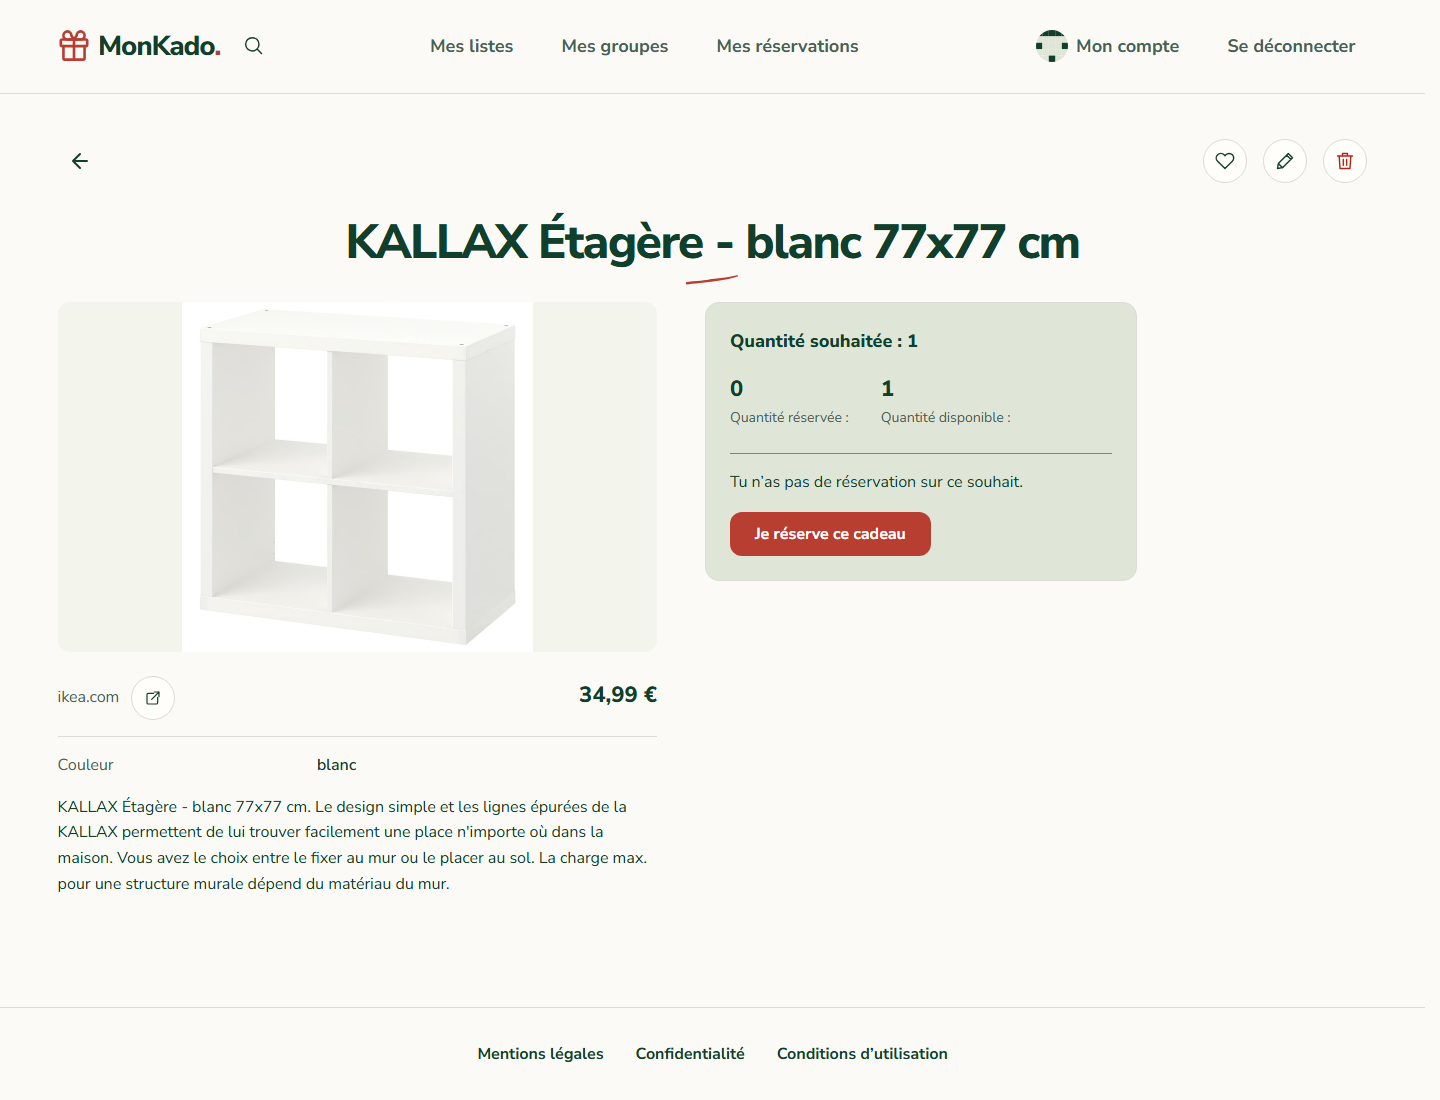
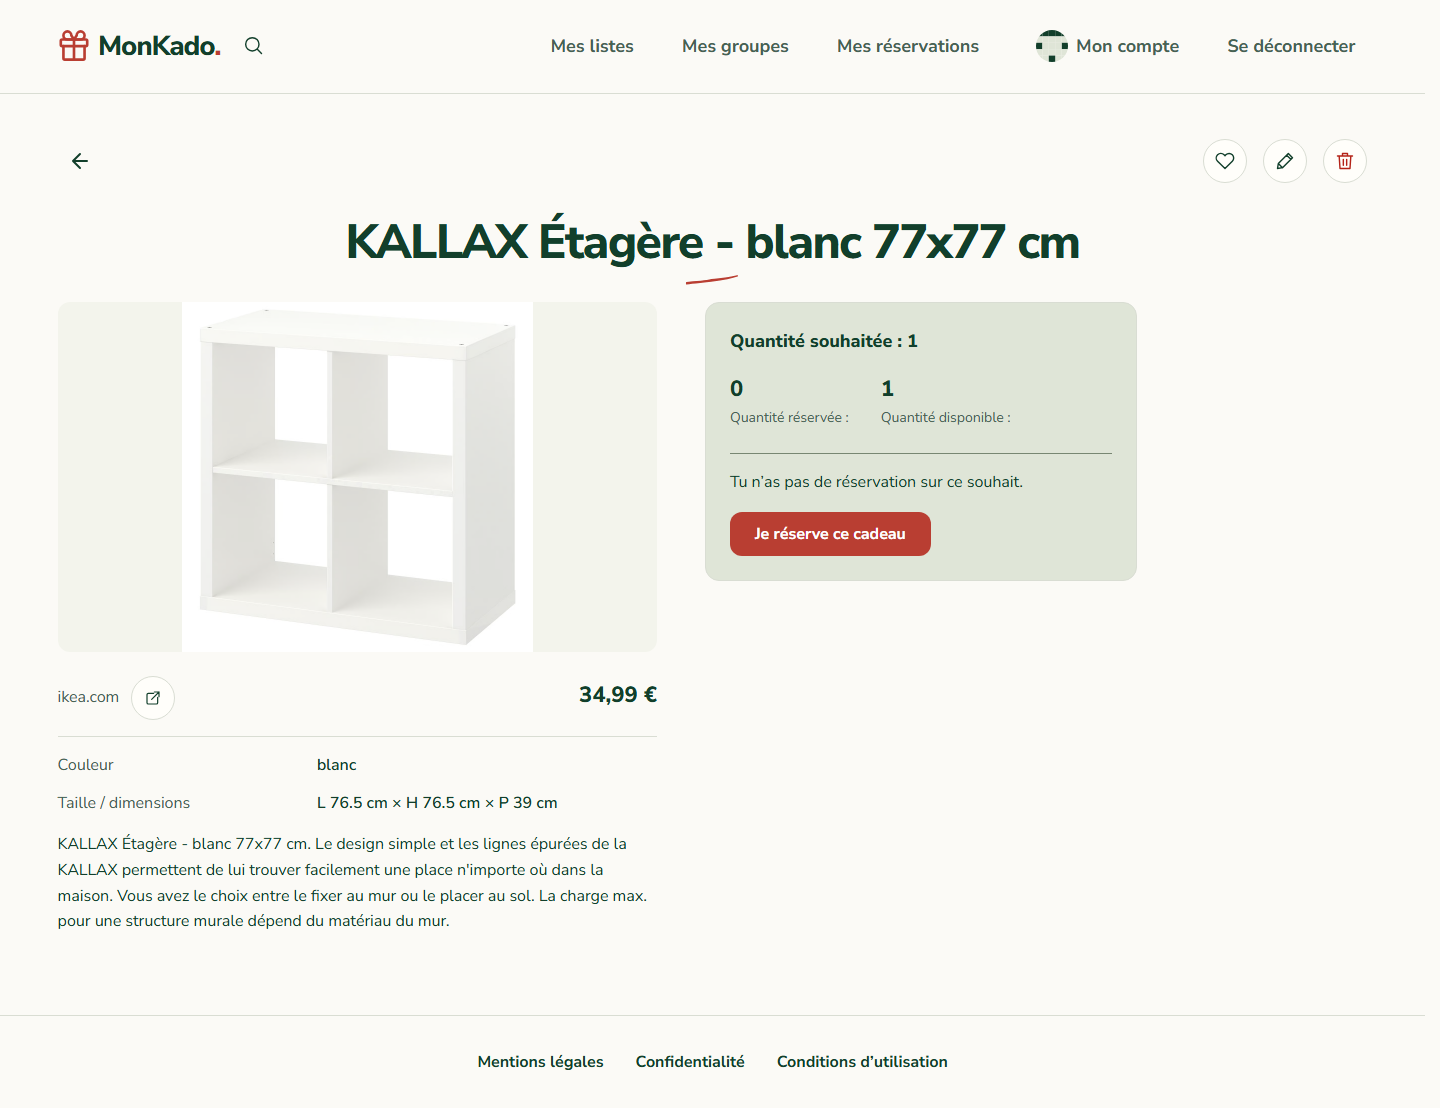
Document imported dimensions with real desktop and mobile evidence

diff --git a/docs/testing/product-link-import/README.md b/docs/testing/product-link-import/README.md
@@ -7,8 +7,8 @@ merchant-page mock was used for the screenshots or `ui-evidence.json`.
 
 | Scenario | Observed result | Evidence |
 | --- | --- | --- |
-| IKEA KALLAX | Name, EUR 34.99 price, photo, description and white colour imported. The size field stays empty because no unambiguous structured size was supplied. | [Product](01-ikea-product-desktop.png), [details](02-ikea-details-desktop.png) |
-| Save and reread | The UI submitted a real POST returning 201, uploaded the normalized image, then retrieved the saved wish with GET 200. Description, colour, price and image were retained. | [Saved wish](03-ikea-saved-desktop.png), [request and response evidence](ui-evidence.json) |
+| IKEA KALLAX | Name, EUR 34.99 price, photo, description, white colour and dimensions `L 76.5 cm × H 76.5 cm × P 39 cm` imported. | [Link](00-ikea-link-desktop.png), [product](01-ikea-product-desktop.png), [details](02-ikea-details-desktop.png) |
+| Save and reread | The UI submitted a real POST returning 201, uploaded the normalized image, then retrieved the saved wish with GET 200. Description, colour, dimensions, price and image were retained. | [Saved wish](03-ikea-saved-desktop.png), [request and response evidence](ui-evidence.json) |
 | Mobile at 390 px | The same imported fields remain usable without horizontal document overflow. | [Product](04-ikea-product-mobile.png), [details](05-ikea-details-mobile.png) |
 | Amazon LEGO 72031 | Name, description and photo recovered. Price remained empty with an explicit warning because no reliable EUR amount was recovered. | [Product and warning](06-amazon-product-desktop.png), [description](07-amazon-description-desktop.png) |
 | Cdiscount LEGO 60454 | Direct page retrieval was unavailable. The UI displayed the warning and allowed manual completion. A readable URL can supply a clearly labelled tentative title; this is not merchant extraction. | [Manual recovery](08-cdiscount-manual-recovery.png), [manual details](09-cdiscount-manual-details.png) |
@@ -26,6 +26,15 @@ same real local account and an additional live preview request, without saving a
 new wish. Its timestamp is recorded separately in `ui-evidence.json`.
 One further real IKEA preview against that final API still returned its name,
 description, white colour, EUR 34.99 price and normalized photo without warnings.
+
+After adding standard product dimensions, the IKEA screenshots 00 to 05 and its
+preview, creation and persisted-response evidence were refreshed against the API
+started at 11:47:30 UTC. Two additional live previews verified the dimensions on
+desktop and mobile. A new real POST 201 and GET 200 confirmed that the full
+dimensions string was saved with the description, colour, price and photo.
+`dimensionRevalidation` records this later run's timestamp separately, and
+`ikeaPreviousEvidenceAt` preserves the earlier observation date. The Amazon,
+Cdiscount, Rituals and surprise evidence remains from its recorded earlier runs.
 
 `ui-evidence.json` includes the actual product URLs, public preview fields,
 normalized image byte counts and SHA-256 hashes, creation payload and persisted
